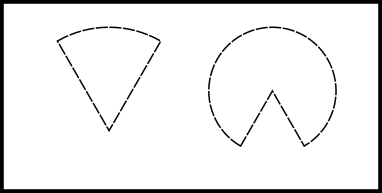
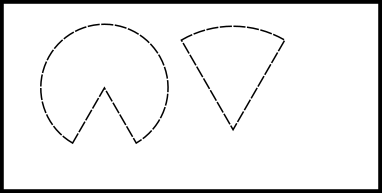
sector front end completed

diff --git a/front-end/index.html b/front-end/index.html
@@ -73,6 +73,18 @@
           <div class="col l3">
             <div class="card z-depth-3">
               <div class="card-image">
+                <img src="./cone.png">
+                <span class="card-title">Card Title</span>
+                <a class="btn-large btn-floating halfway-fab waves-effect waves-light yellow darken-4 modal-trigger" data-target="modal_sector"><i class="material-icons">add</i></a>
+              </div>
+              <div class="card-content">
+                <p><strong>Add a Sector</strong></p>
+              </div>
+            </div>
+          </div>
+          <div class="col l3">
+            <div class="card z-depth-3">
+              <div class="card-image">
                 <img src="./custom.png">
                 <span class="card-title">Card Title</span>
                 <a class="btn-large btn-floating halfway-fab waves-effect waves-light yellow darken-4 modal-trigger" data-target="modal_custom"><i class="material-icons">add</i></a>
@@ -242,6 +254,34 @@
             </div>
         </div>
     </div>
+    <div id="modal_sector" class="modal">
+      <div class="modal-content">
+          <div class="row">
+              <div class="col l6">
+                  <img src="dim_sector.png" style="width:70%;margin:auto auto">
+              </div>
+              <div class="col l6">
+                  <h4>Enter the Sector Dimensions</h4>
+                  <div class="input-field">
+                      <input id="input_sector_radius" type="number" class="validate  yellow-text text-darken-4" style="border-bottom-color:#f57f17;">
+                      <label for="input_sector_radius" class="yellow-text text-darken-4"><strong>Sector Radius (r)</strong></label>
+                  </div>
+                  <div class="input-field">
+                      <input id="input_sector_angle" type="number" class="validate  yellow-text text-darken-4" style="border-bottom-color:#f57f17;">
+                      <label for="input_sector_angle" class="yellow-text text-darken-4"><strong>Sector Angle (θ)</strong></label>
+                  </div>
+                  <p class="yellow-text text-darken-4 bld">Select Range :</p>
+                  <p class="range-field">
+                    <input type="range" id="kount_sector" min="1" max="20" value="1" />
+                  </p>
+                  <div>
+                      <button class="modal-close waves-effect waves-dark red darken-2 btn" style="margin-right:20px;" onclick="sector_cancel()">Cancel</button>
+                      <button class="yellow darken-4 waves-effect waves-light btn" style="margin-right:20px;" onclick="sector_submit()">Create Object</button>
+                  </div>
+              </div>
+          </div>
+      </div>
+  </div>
     <div id="modal_delete_row" class="modal">
       <div class="modal-content">
         <h4>Confirm Deletion</h4>

diff --git a/front-end/brain.js b/front-end/brain.js
@@ -135,6 +135,15 @@ function cone_cancel()
     toaster("Cone object dropped !","red darken-3 white-text");
 }
 
+function sector_cancel()
+{
+    var r = document.getElementById("input_sector_radius");
+    var a = document.getElementById("input_sector_angle");
+    a.value="";
+    r.value="";document.getElementById("kount_sector").value=1;
+    toaster("Sector object dropped !","red darken-3 white-text");
+}
+
 function cone_submit()
 {
     var h = document.getElementById("input_cone_height");
@@ -161,6 +170,28 @@ function cone_submit()
     k.value=1;
     var instance = M.Modal.getInstance(document.getElementById("modal_cone"));    instance.close()
     toaster("Cone object added to stack !","yellow-text text-darken-2");
+    table_refresh();
+}
+
+function sector_submit()
+{
+    var r = document.getElementById("input_sector_radius");
+    var a = document.getElementById("input_sector_angle");
+    var k = document.getElementById("kount_sector");
+    var A = a.value;  var R = r.value;
+    if(String(R)=="" || String(A)=="")
+    {
+        toaster("Empty Input","red-text text-darken-3 white");
+        return("");
+    }
+    console.log("R:"+R,"θ:"+A);
+    r.value="";    a.value="";
+    const id_ = makeid(8);
+    for(var i=0;i<k.value;i++)
+        db[id_+String(i)]={id:id_+String(i),shape_name:"Sector",dimensions:"r:"+R+" ; θ:"+A};
+    k.value=1;
+    var instance = M.Modal.getInstance(document.getElementById("modal_sector"));    instance.close()
+    toaster("Sector object added to stack !","yellow-text text-darken-2");
     table_refresh();
 }
 
